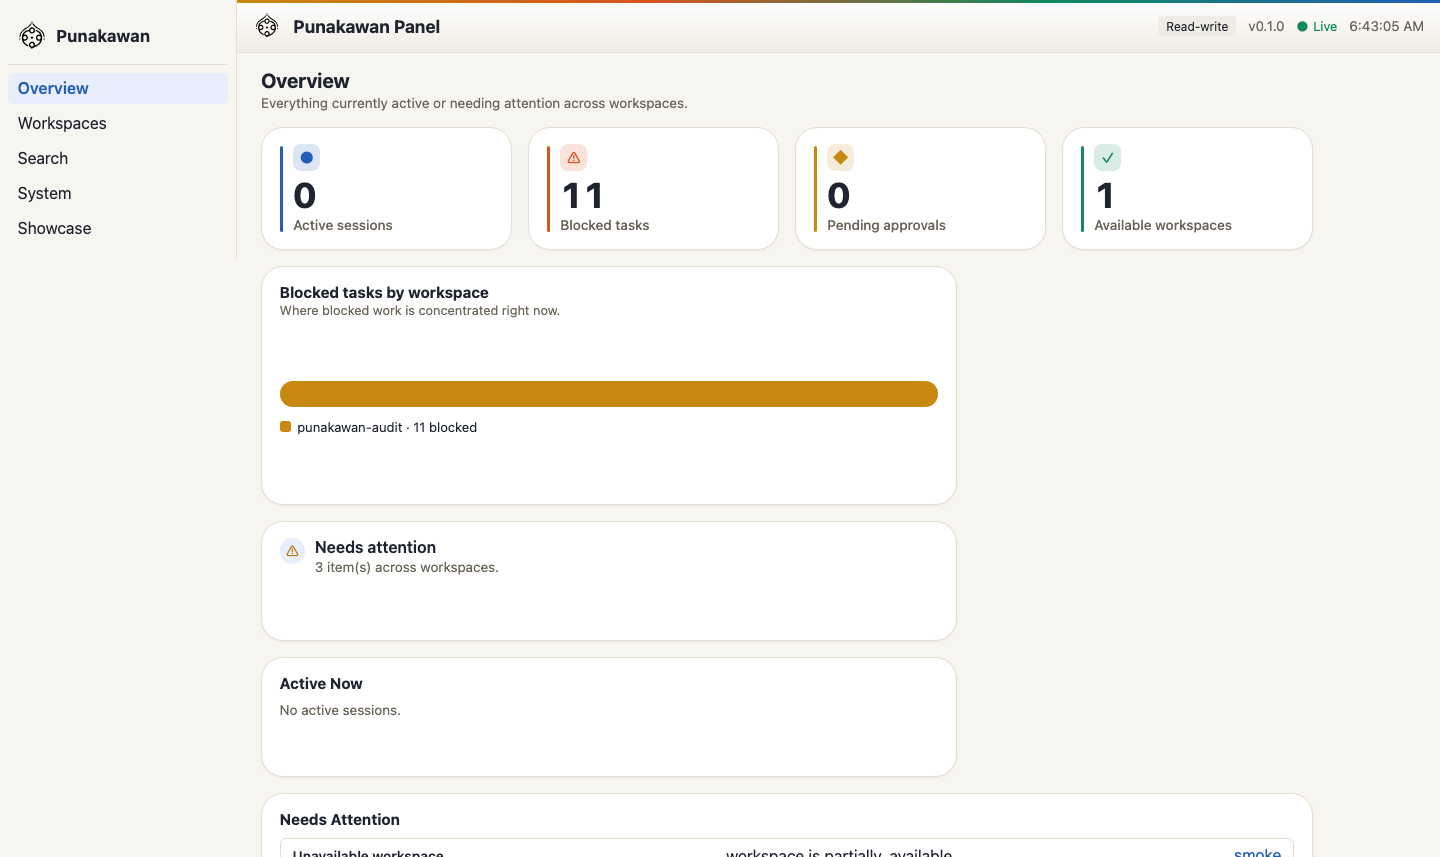
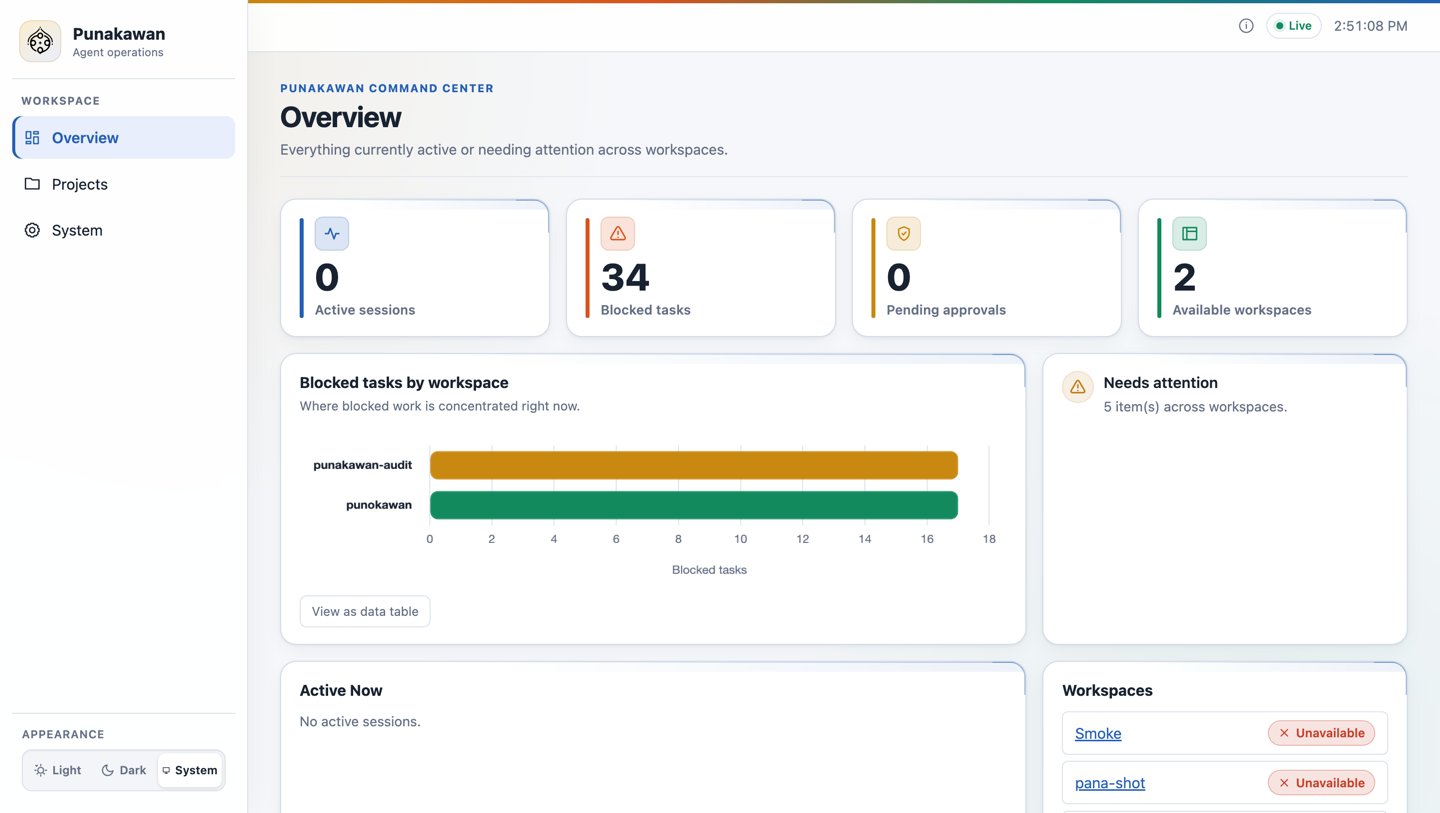
docs(panel): refresh screenshots and README for redesigned surface
Regenerate panel-overview and panel-showcase to match the visual refresh
(Setara card/button system, responsive layout). Showcase now captures the
Roles config tab with wayang portraits and equal-width style/mode segments.
Expand the README panel section to name the tabbed project surfaces
(Roles, Contradictions, Impact, Change Dossiers) and the shared token system.

Generated with [Claude Code](https://claude.com/claude-code)

Claude-Session: https://claude.ai/code/session_014rfFjSqHPd4JWdXviFkivm

diff --git a/README.md b/README.md
@@ -172,14 +172,22 @@ keyboard-accessible and served entirely from the Go binary (the Svelte frontend
 is embedded via `go:embed`). Nothing leaves your machine; the listener binds to
 loopback and mutating routes are session- and CSRF-gated.
 
-The interface is a single design system themed on the wayang batik palette drawn
-from the artwork above — gold, teal, terracotta, and indigo — with accented
-metric tiles, status pills, charts, and modals that all read from the same
-tokens in both light and dark:
+Each project drills into tabbed surfaces — Summary, Metadata, **Roles**,
+Workflows, Knowledge, Tasks, Plans, **Contradictions**, **Impact**, and **Change
+Dossiers** — so the four Punakawan roles, their open blockers, cross-repository
+impact, and handoff state all read from one place. The Roles tab configures
+Semar, Gareng, Petruk, and Bagong directly — each with its wayang portrait,
+per-role style/mode, and toggleable capabilities:
 
 <p align="center">
-  <img src="assets/panel-showcase.png" alt="Punakawan Panel — component/theme system" width="820" />
+  <img src="assets/panel-showcase.png" alt="Punakawan Panel — role configuration" width="820" />
 </p>
+
+The interface is a single design system themed on the wayang batik palette drawn
+from the artwork above — gold, teal, terracotta, and indigo — with accented
+metric tiles, status pills, charts, cards, buttons, and modals that all read from
+the same tokens, stay responsive down to a single column on mobile, and render in
+both light and dark.
 
 ## Architecture in one line
 
